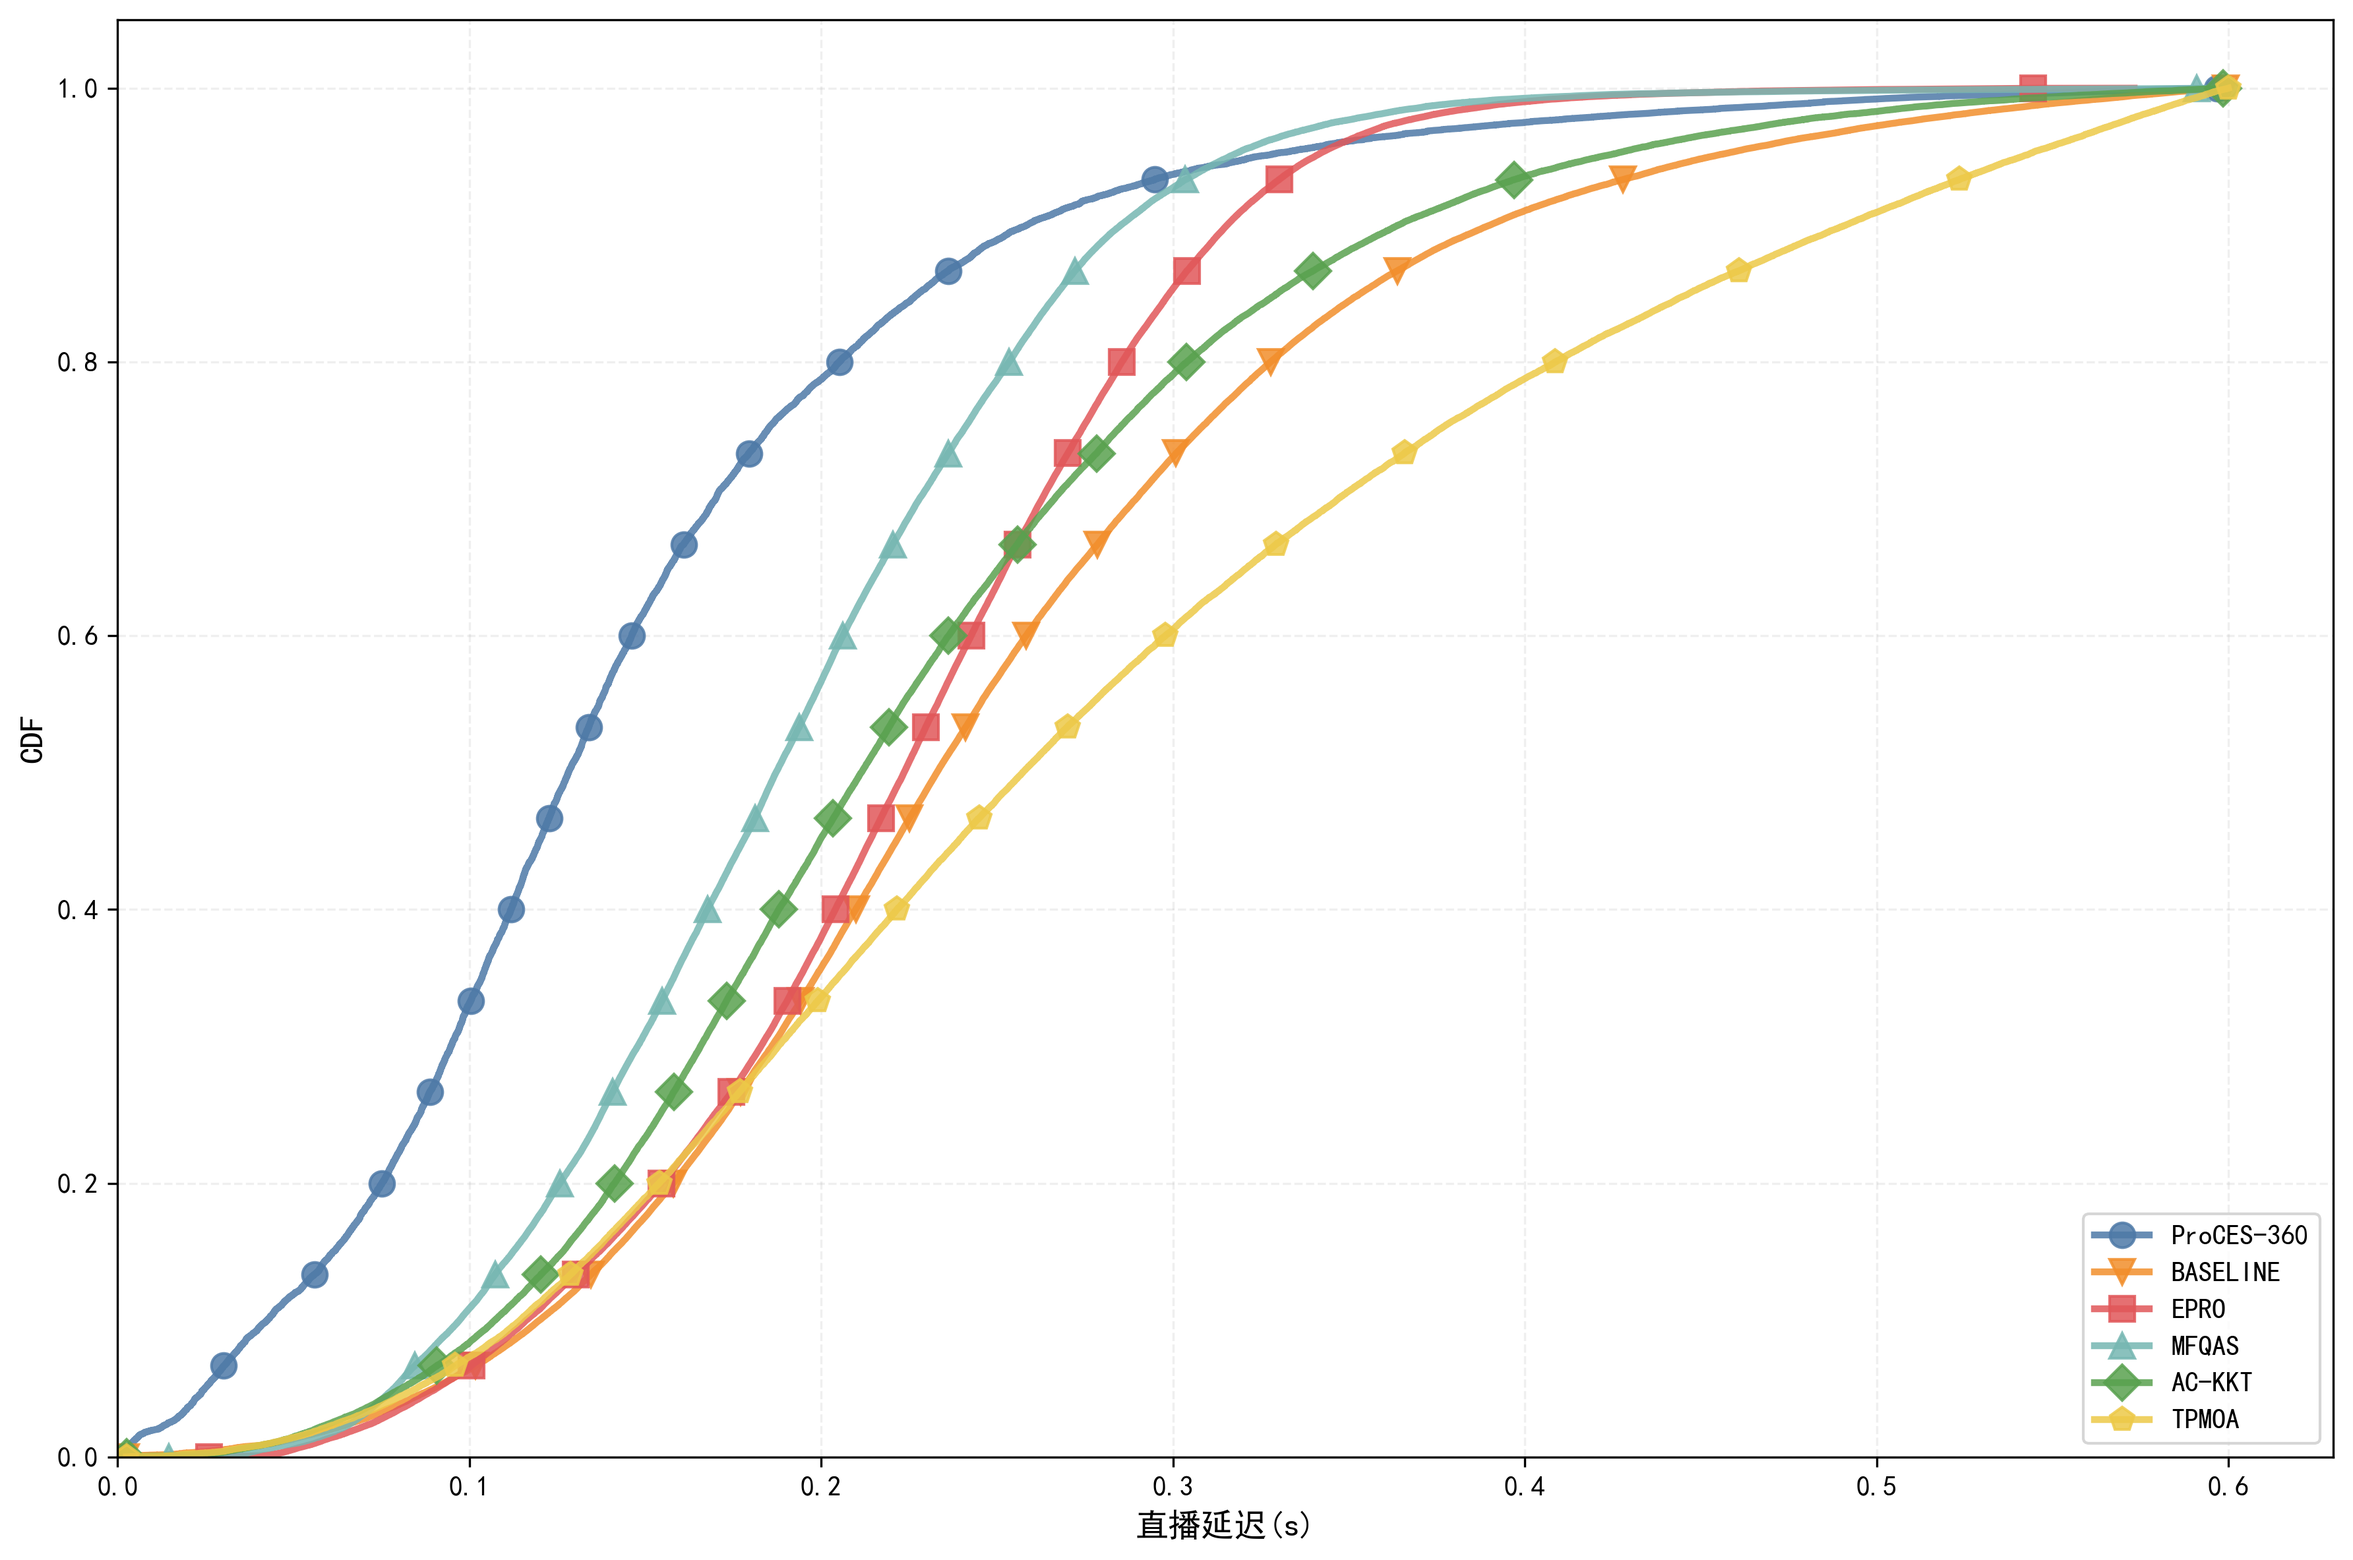
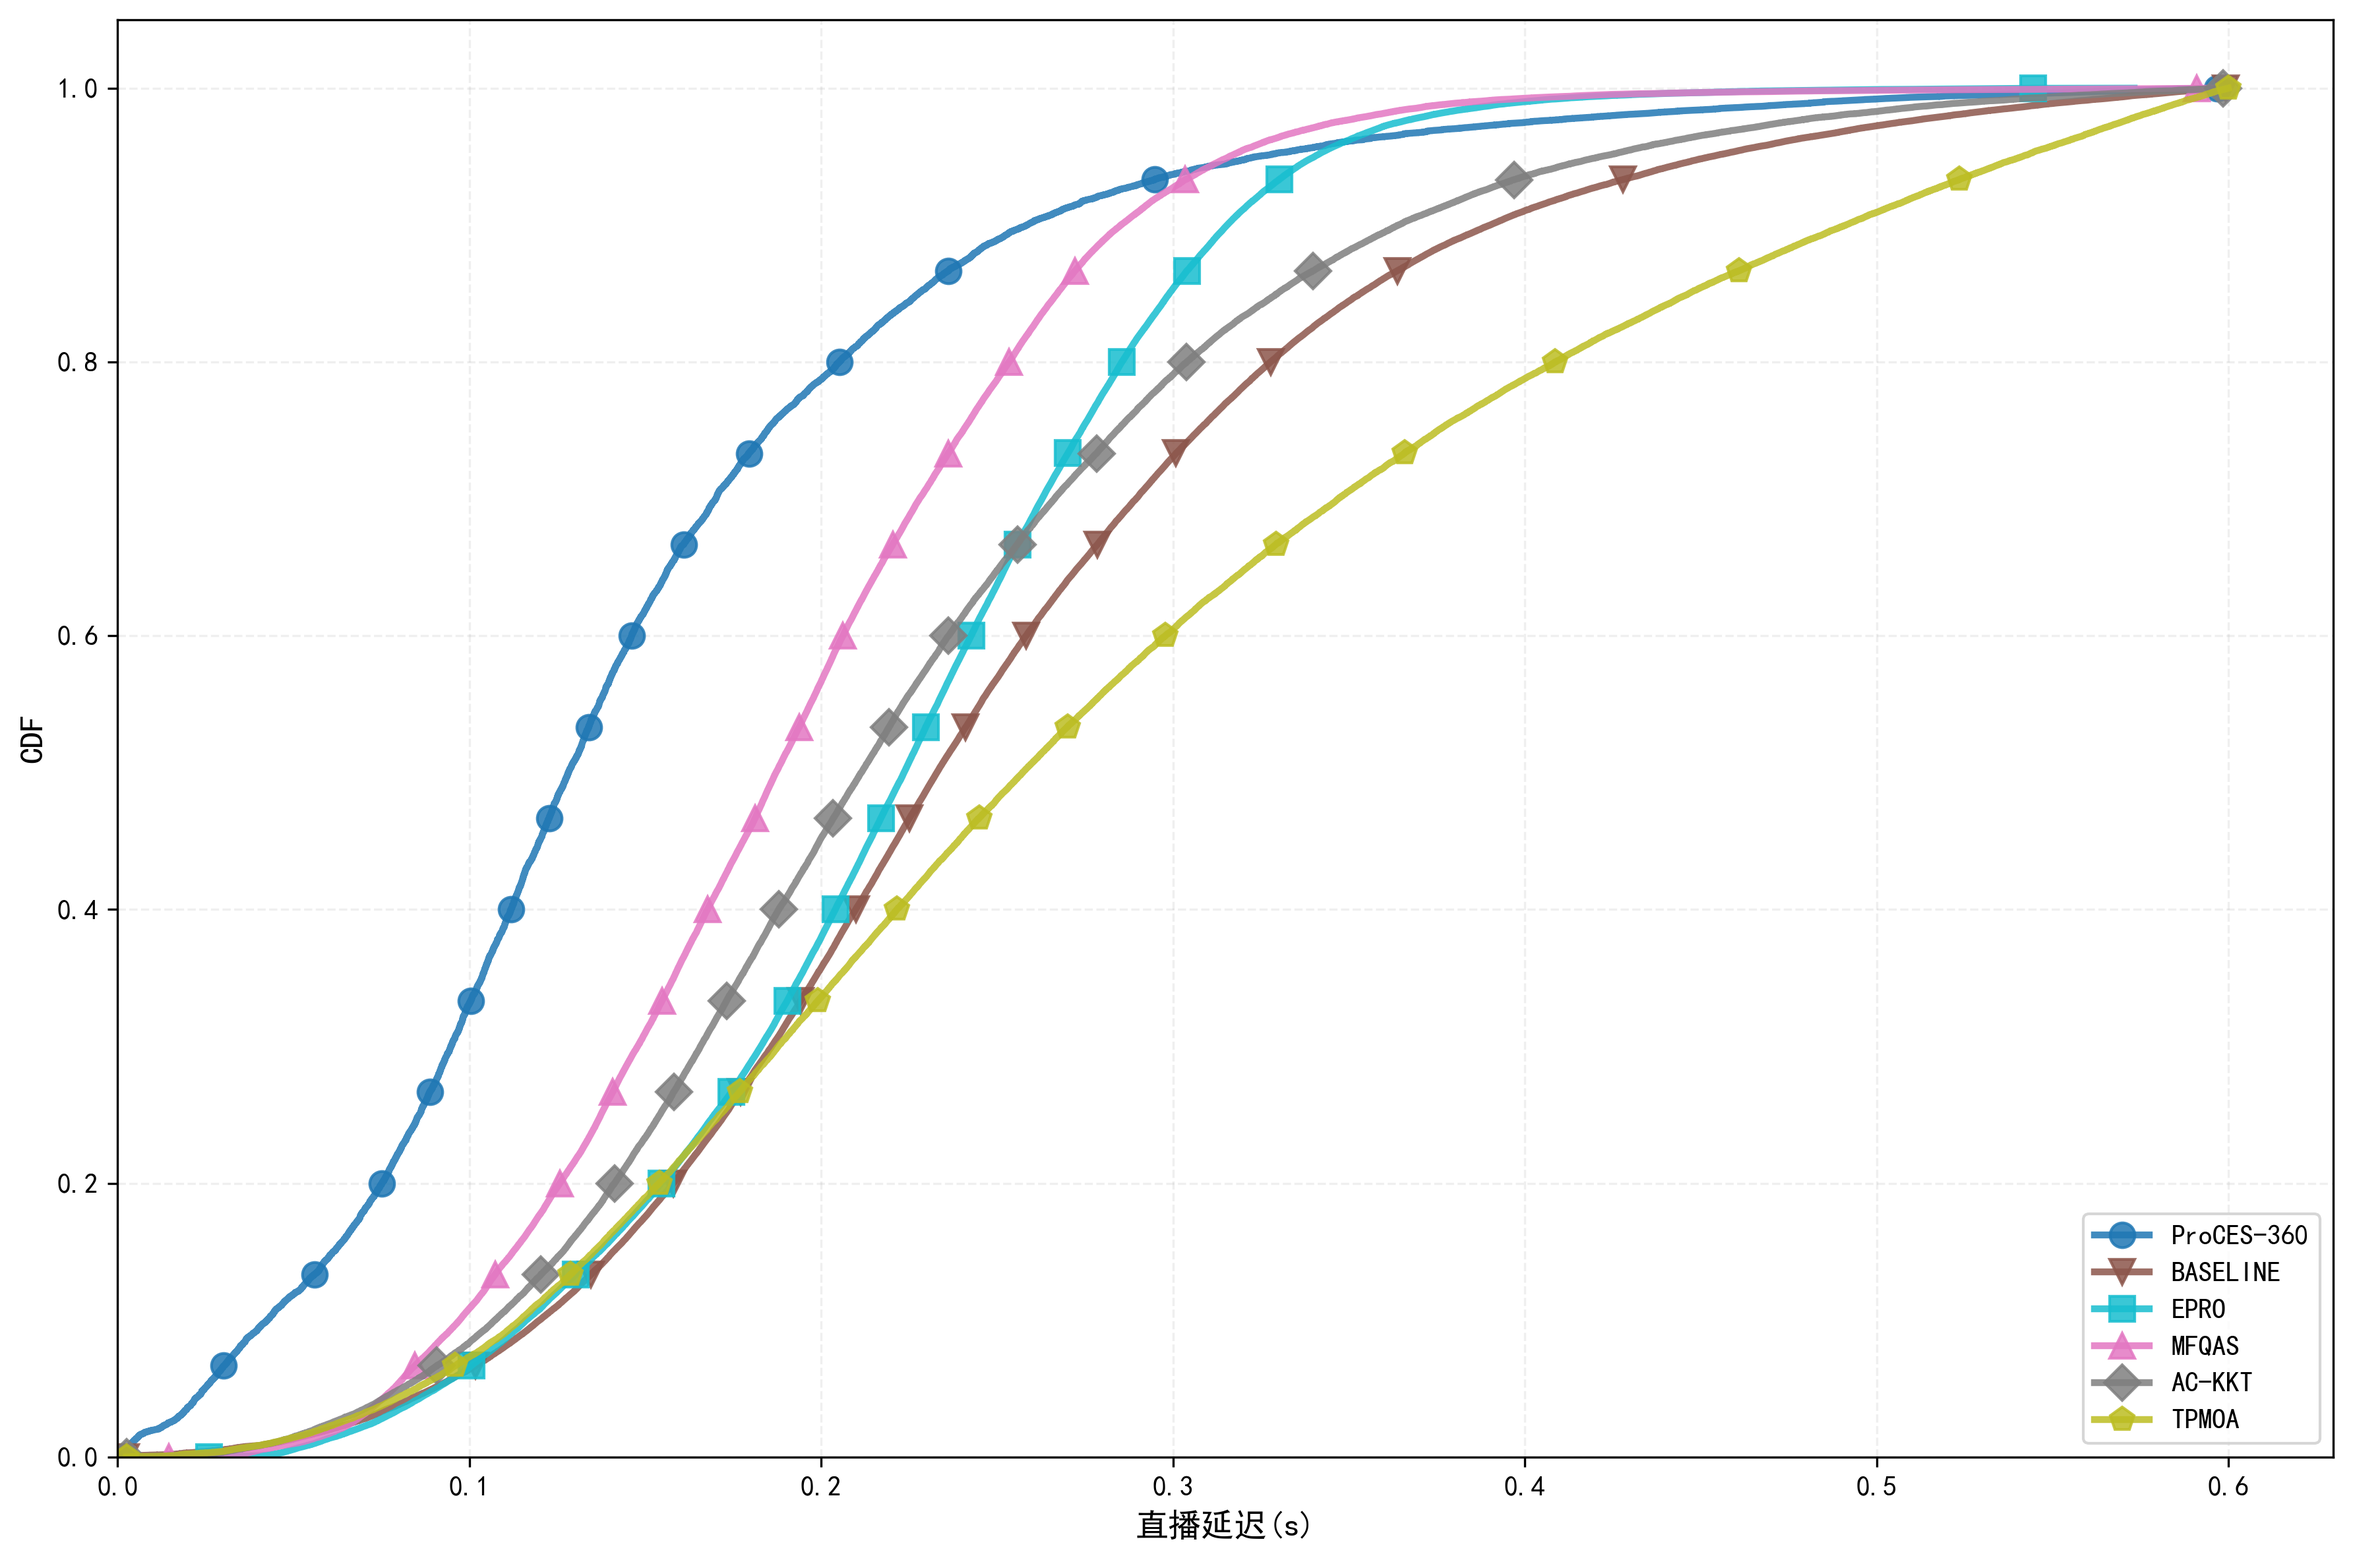
画完全部实验图

diff --git a/plots/fair/task_fair/energy_consume/energy_consume.py b/plots/fair/task_fair/energy_consume/energy_consume.py
@@ -124,15 +124,7 @@ if __name__ == "__main__":
     all_data = [ProCES360_live_delay_list, BASELINE_live_delay_list, EPRO_live_delay_list, MFQAS_live_delay_list,
                 ACKKT_live_delay_list, TPMOA_live_delay_list]
 
-    # 自定义颜色（使用tab20色彩映射生成6个颜色）
-    custom_colors = [
-        '#4E79A7',  # 深蓝色
-        '#F28E2B',  # 橙色
-        '#E15759',  # 红色
-        '#76B7B2',  # 蓝绿色
-        '#59A14F',  # 绿色
-        '#EDC948'  # 黄色
-    ]
+    custom_colors = np.vstack([plt.cm.tab10(np.linspace(0, 1, 3)), plt.cm.tab10([6, 7, 8])])
 
     # 自定义标记
     custom_markers = ['o', 'v', 's', '^', 'D', 'p']

diff --git a/plots/fair/task_fair/live_delay/live_delay.py b/plots/fair/task_fair/live_delay/live_delay.py
@@ -124,15 +124,7 @@ if __name__ == "__main__":
     all_data = [ProCES360_live_delay_list, BASELINE_live_delay_list, EPRO_live_delay_list, MFQAS_live_delay_list,
                 ACKKT_live_delay_list, TPMOA_live_delay_list]
 
-    # 自定义颜色（使用tab20色彩映射生成6个颜色）
-    custom_colors = [
-        '#4E79A7',  # 深蓝色
-        '#F28E2B',  # 橙色
-        '#E15759',  # 红色
-        '#76B7B2',  # 蓝绿色
-        '#59A14F',  # 绿色
-        '#EDC948'  # 黄色
-    ]
+    custom_colors = np.vstack([plt.cm.tab10(np.linspace(0, 1, 3)), plt.cm.tab10([6, 7, 8])])
 
     # 自定义标记
     custom_markers = ['o', 'v', 's', '^', 'D', 'p']
